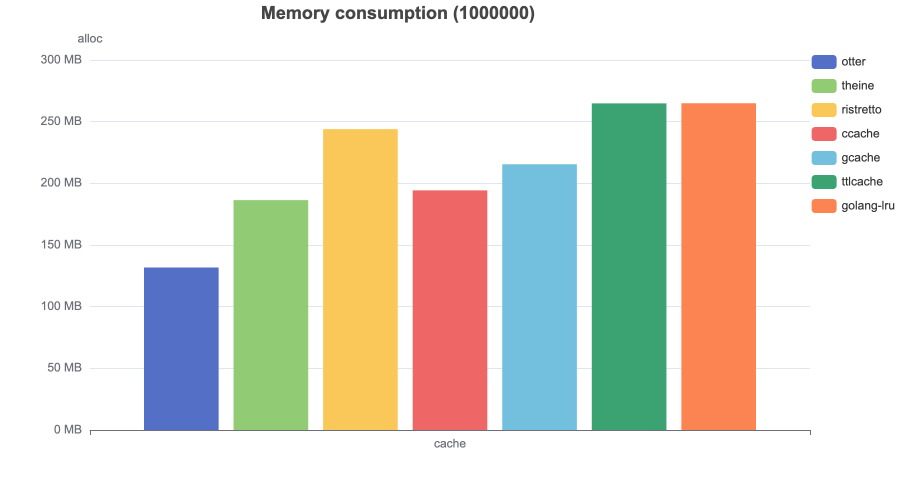
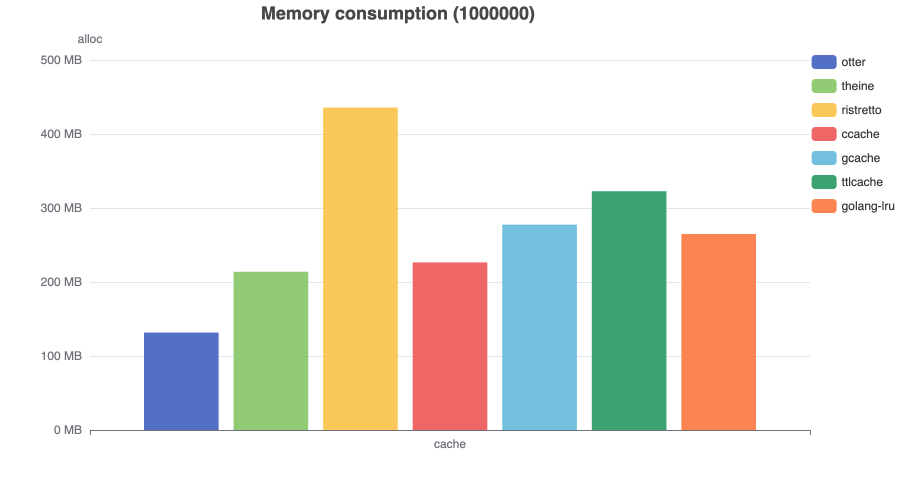
[Chore] Update memory consumption benchmarks

diff --git a/memory/main.go b/memory/main.go
@@ -86,6 +86,10 @@ func newOtter(capacity int) {
 	}
 	for _, key := range keys {
 		cache.Set(key, key)
+		for i := 0; i < 10; i++ {
+			cache.Get(key)
+		}
+		time.Sleep(5 * time.Microsecond)
 	}
 }
 
@@ -101,6 +105,10 @@ func newRistretto(capacity int) {
 	}
 	for _, key := range keys {
 		cache.SetWithTTL(key, key, 1, time.Hour)
+		for i := 0; i < 10; i++ {
+			cache.Get(key)
+		}
+		time.Sleep(5 * time.Microsecond)
 	}
 }
 
@@ -111,6 +119,10 @@ func newTheine(capacity int) {
 	}
 	for _, key := range keys {
 		cache.SetWithTTL(key, key, 1, time.Hour)
+		for i := 0; i < 10; i++ {
+			cache.Get(key)
+		}
+		time.Sleep(5 * time.Microsecond)
 	}
 }
 
@@ -118,6 +130,10 @@ func newCcache(capacity int) {
 	cache := ccache.New(ccache.Configure[string]().MaxSize(int64(capacity)))
 	for _, key := range keys {
 		cache.Set(key, key, time.Hour)
+		for i := 0; i < 10; i++ {
+			cache.Get(key)
+		}
+		time.Sleep(5 * time.Microsecond)
 	}
 }
 
@@ -127,6 +143,12 @@ func newGcache(capacity int) {
 		if err := cache.Set(key, key); err != nil {
 			panic(err)
 		}
+		for i := 0; i < 10; i++ {
+			if _, err := cache.Get(key); err != nil {
+				panic(err)
+			}
+		}
+		time.Sleep(5 * time.Microsecond)
 	}
 }
 
@@ -138,6 +160,10 @@ func newTTLCache(capacity int) {
 	go cache.Start()
 	for _, key := range keys {
 		cache.Set(key, key, ttlcache.DefaultTTL)
+		for i := 0; i < 10; i++ {
+			cache.Get(key)
+		}
+		time.Sleep(5 * time.Microsecond)
 	}
 }
 
@@ -145,5 +171,9 @@ func newHashicorp(capacity int) {
 	cache := hashicorp.NewLRU[string, string](capacity, nil, time.Hour)
 	for _, key := range keys {
 		cache.Add(key, key)
+		for i := 0; i < 10; i++ {
+			cache.Get(key)
+		}
+		time.Sleep(5 * time.Microsecond)
 	}
 }
